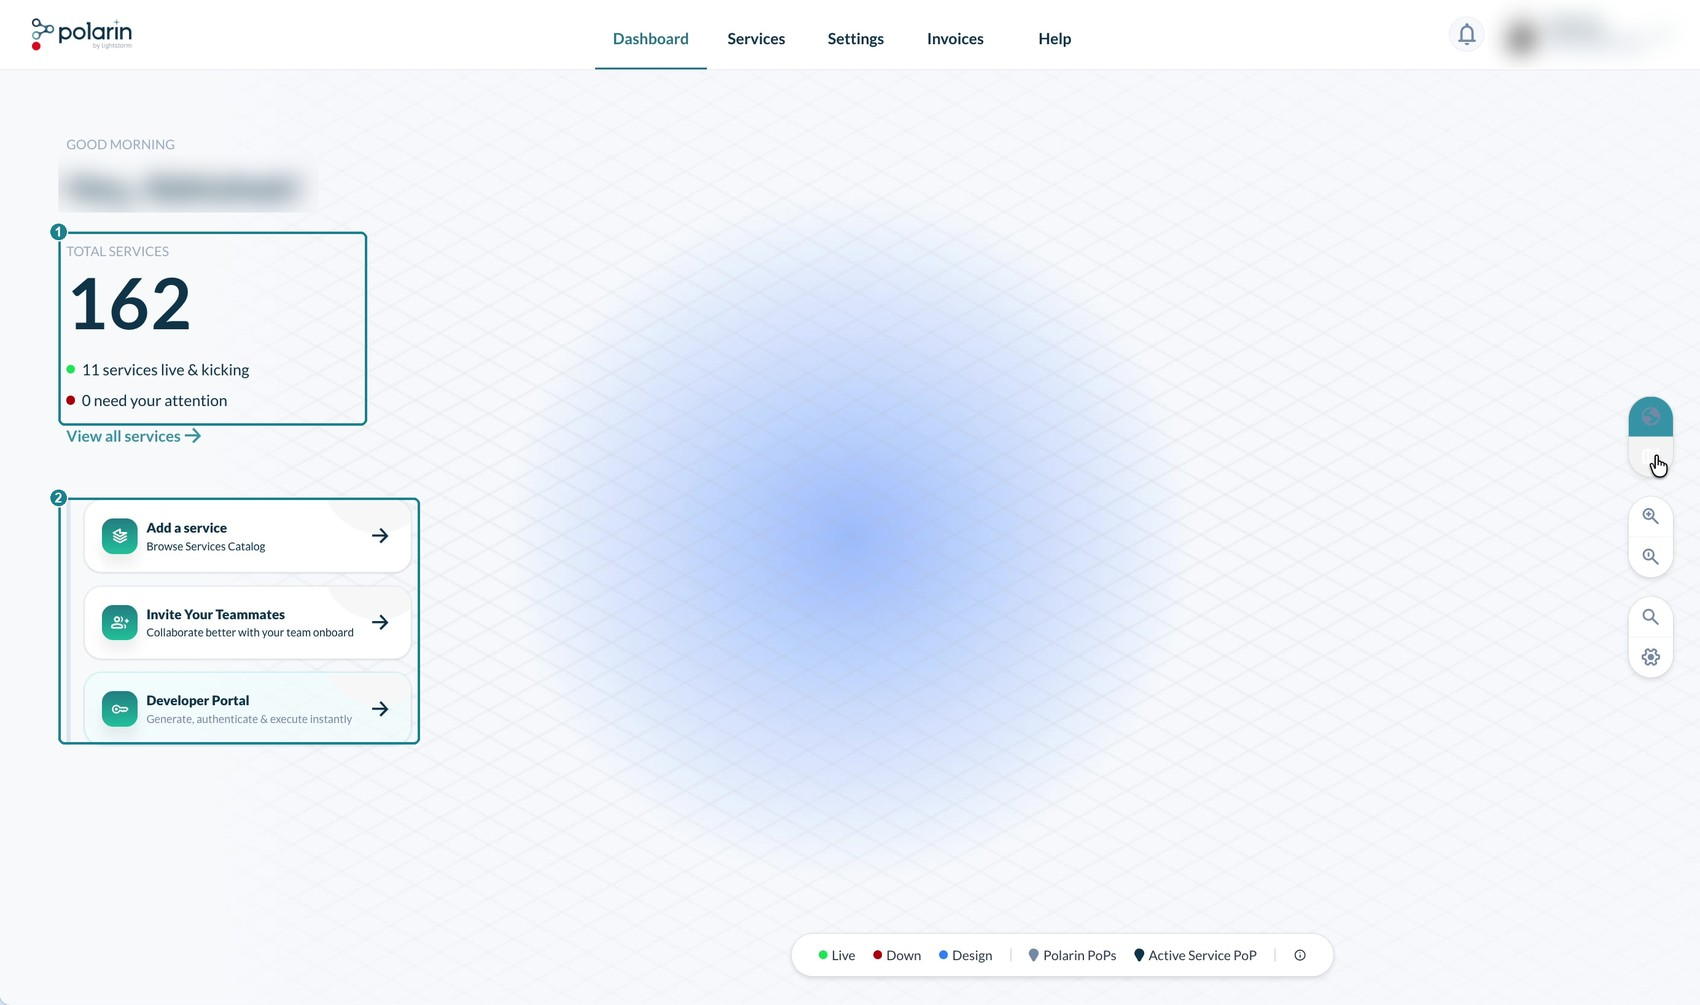
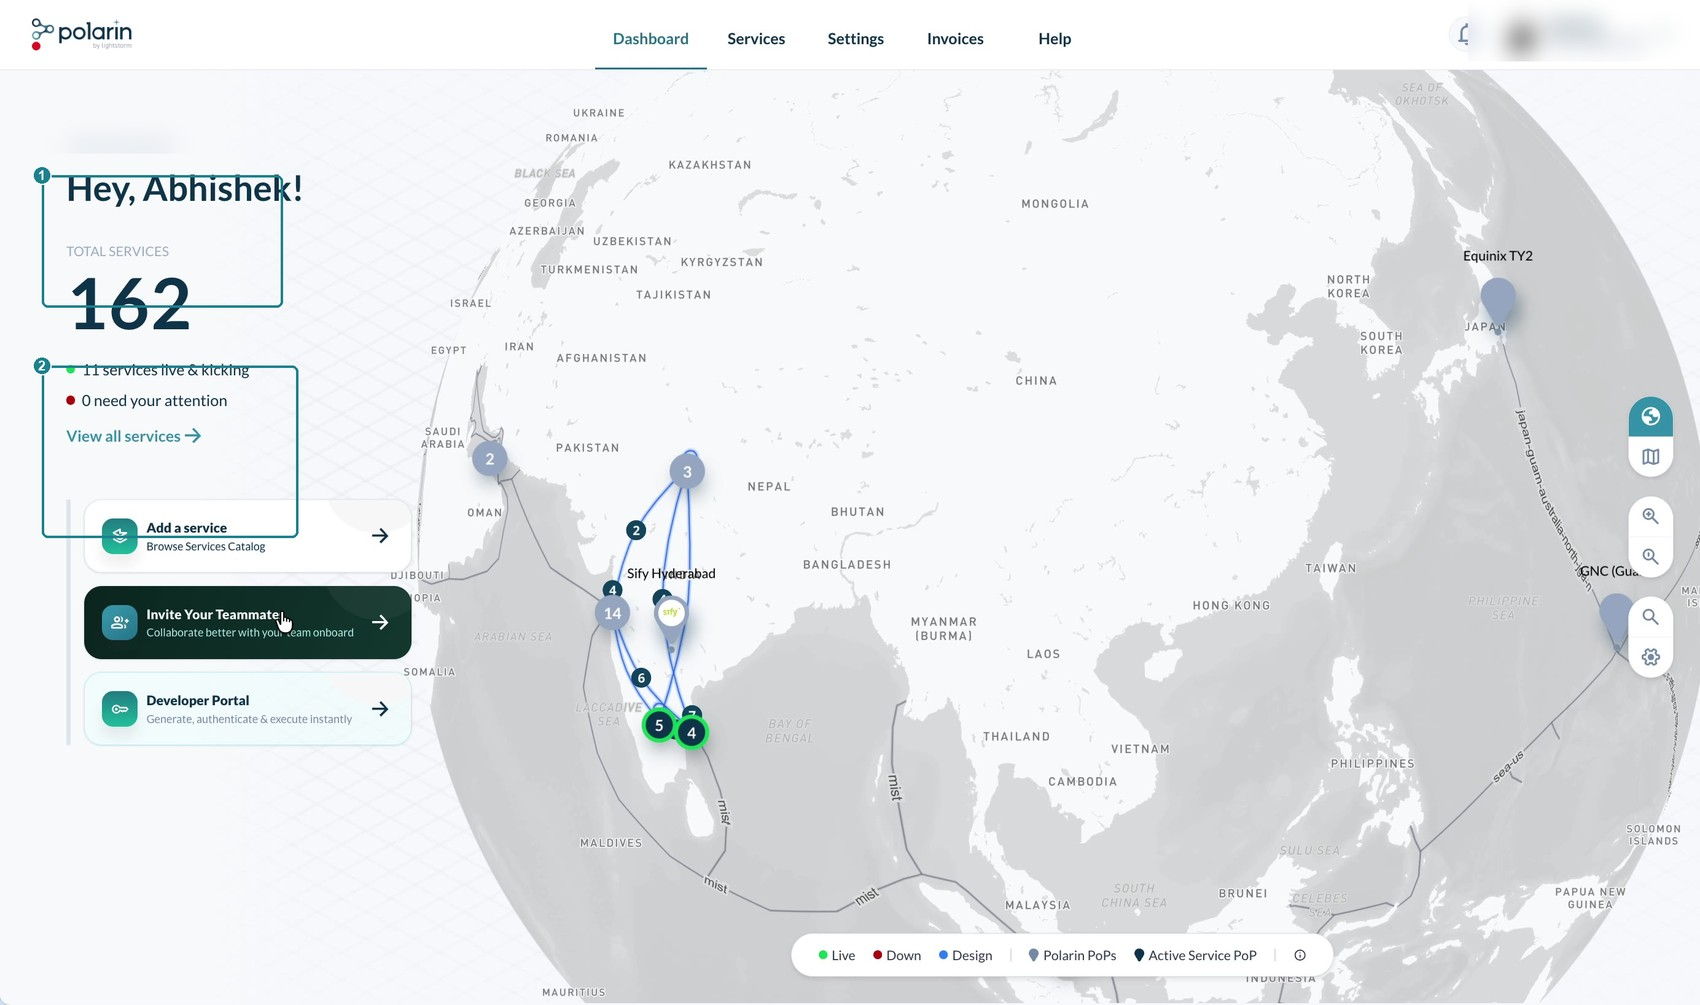
fix: correct header redaction and drop two truncated screenshots
- Re-sourced the Total Services screenshot from a frame where the
  globe is actually rendered (the previous source frame caught the
  map mid-load, showing only a blank glow) and fixed the header
  avatar/name redaction, which had missed its target coordinates.
- Removed the PoP-click panel and Dashboard Guide legend screenshots:
  both panels are genuinely wider than the browser viewport the demo
  was recorded in, so their right edge is cut off in the source video
  itself - no amount of cropping recovers pixels that were never
  captured. Rewrote the surrounding prose to drop the now-orphaned
  callout-number references.

diff --git a/src/app/components/knowledge-base/articles/DashboardOverviewPage.tsx b/src/app/components/knowledge-base/articles/DashboardOverviewPage.tsx
@@ -72,11 +72,6 @@ export function DashboardOverviewPage({ onNavigate }: Props) {
         Click the <strong>ⓘ</strong> icon next to the legend for a full breakdown of every marker and cluster
         style — handy the first few times you're reading the map.
       </Callout>
-      <DocImage
-        src="/screenshots/dashboard/06-legend-guide.jpg"
-        alt="Dashboard Guide legend panel explaining PoP types and clusters"
-        caption="① Polarin PoPs vs Customer PoPs — ② a cluster example (4 locations)"
-      />
 
       {/* ── Interacting with the map ── */}
       <H2 id="interacting">Interacting With the Map</H2>
@@ -91,16 +86,11 @@ export function DashboardOverviewPage({ onNavigate }: Props) {
         caption="① Hover preview — service name, parent product, both ends, and bandwidth"
       />
       <P>
-        <strong>Click a PoP marker ①</strong> to open a side panel listing every service at that location, split
-        into <strong>Ordered Services ②</strong> (what you've already provisioned there) and{" "}
+        <strong>Click a PoP marker</strong> to open a side panel listing every service at that location, split
+        into <strong>Ordered Services</strong> (what you've already provisioned there) and{" "}
         <strong>Available to Order</strong> (what you could add) — search or filter by Live/Down right from that
-        panel, and each result <strong>③</strong> shows its speed and Service ID.
+        panel, and each result shows its speed and Service ID.
       </P>
-      <DocImage
-        src="/screenshots/dashboard/04-pop-panel.jpg"
-        alt="Clicking a PoP marker opens its ordered and available services panel"
-        caption="① The clicked marker — ② Ordered Services / Available to Order tabs — ③ a service result"
-      />
       <P>
         Zoom, search, and reset using the toolbar on the right edge of the map — the search icon jumps straight
         to a named location instead of panning manually.
